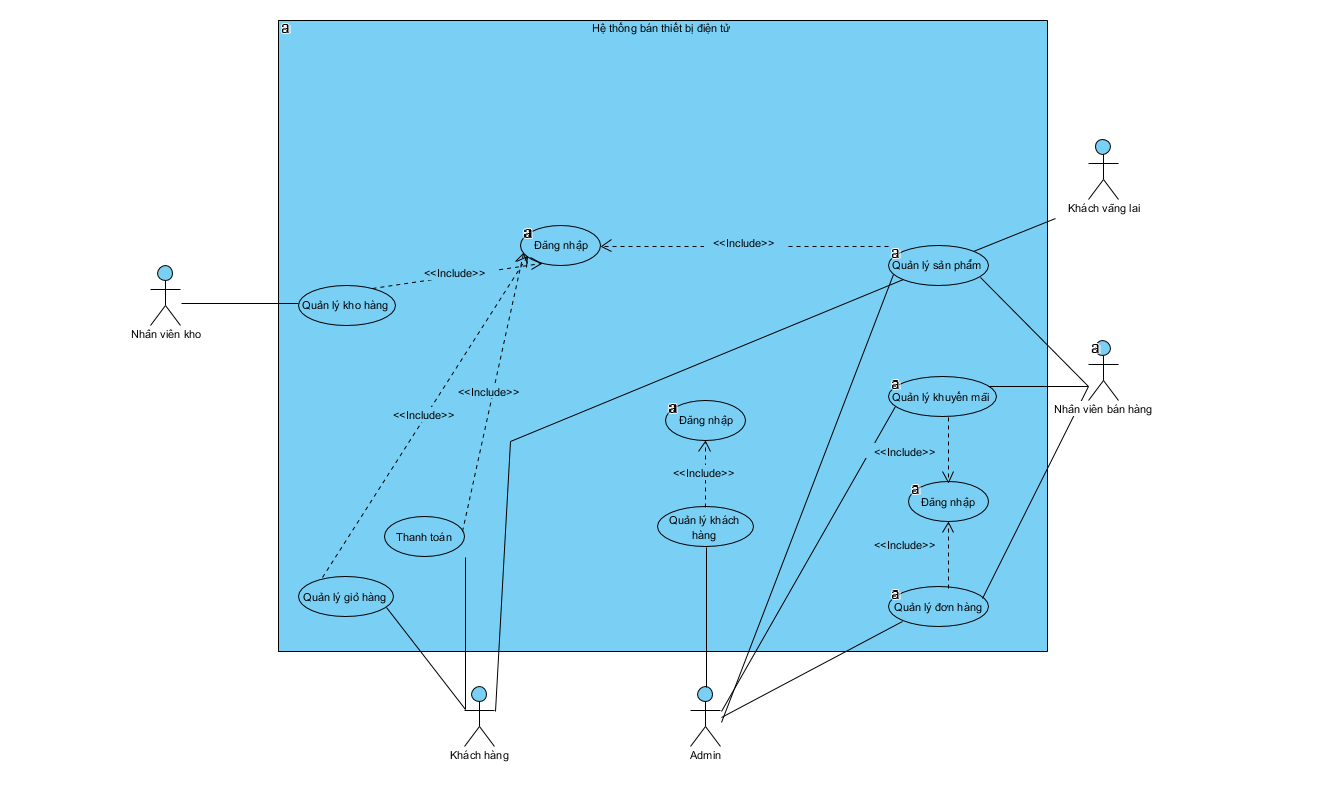
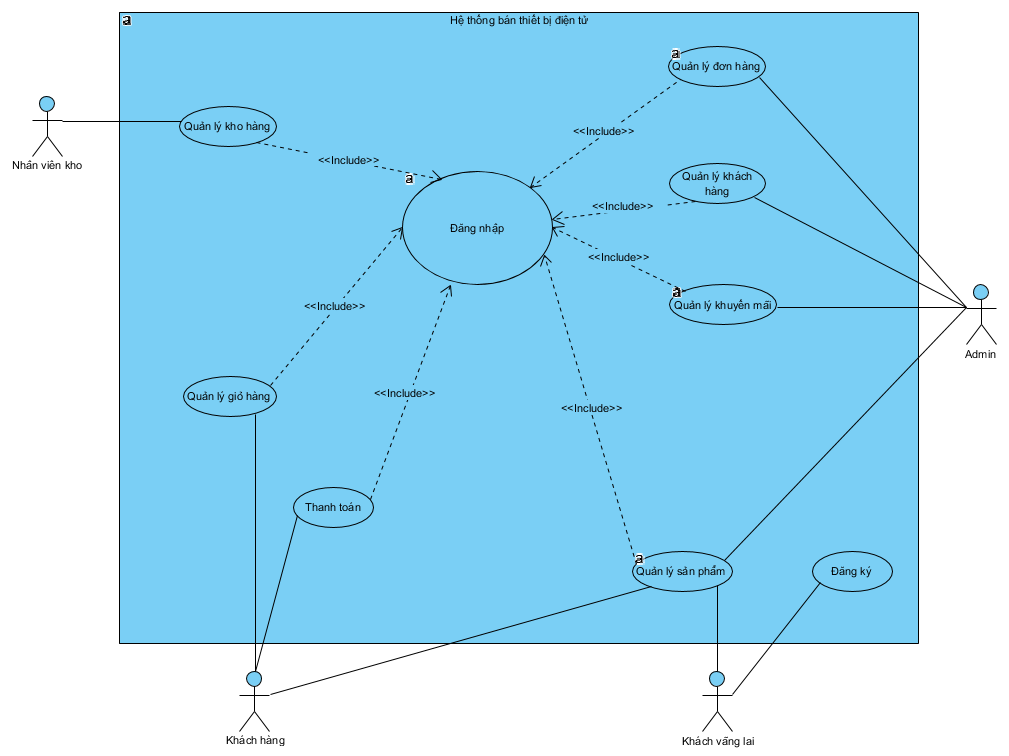
update biểu đồ usecase tổng quát

diff --git a/PTTK/PTTK.md b/PTTK/PTTK.md
@@ -27,4 +27,4 @@ Website hướng đến trải nghiệm mua sắm hiện đại, tốc độ cao
 
 6.2. Sơ đồ use case tổng quát
 
-![1768202525094](image/PTTK/1768202525094.png)
+![1768297429920](image/PTTK/1768297429920.png)
